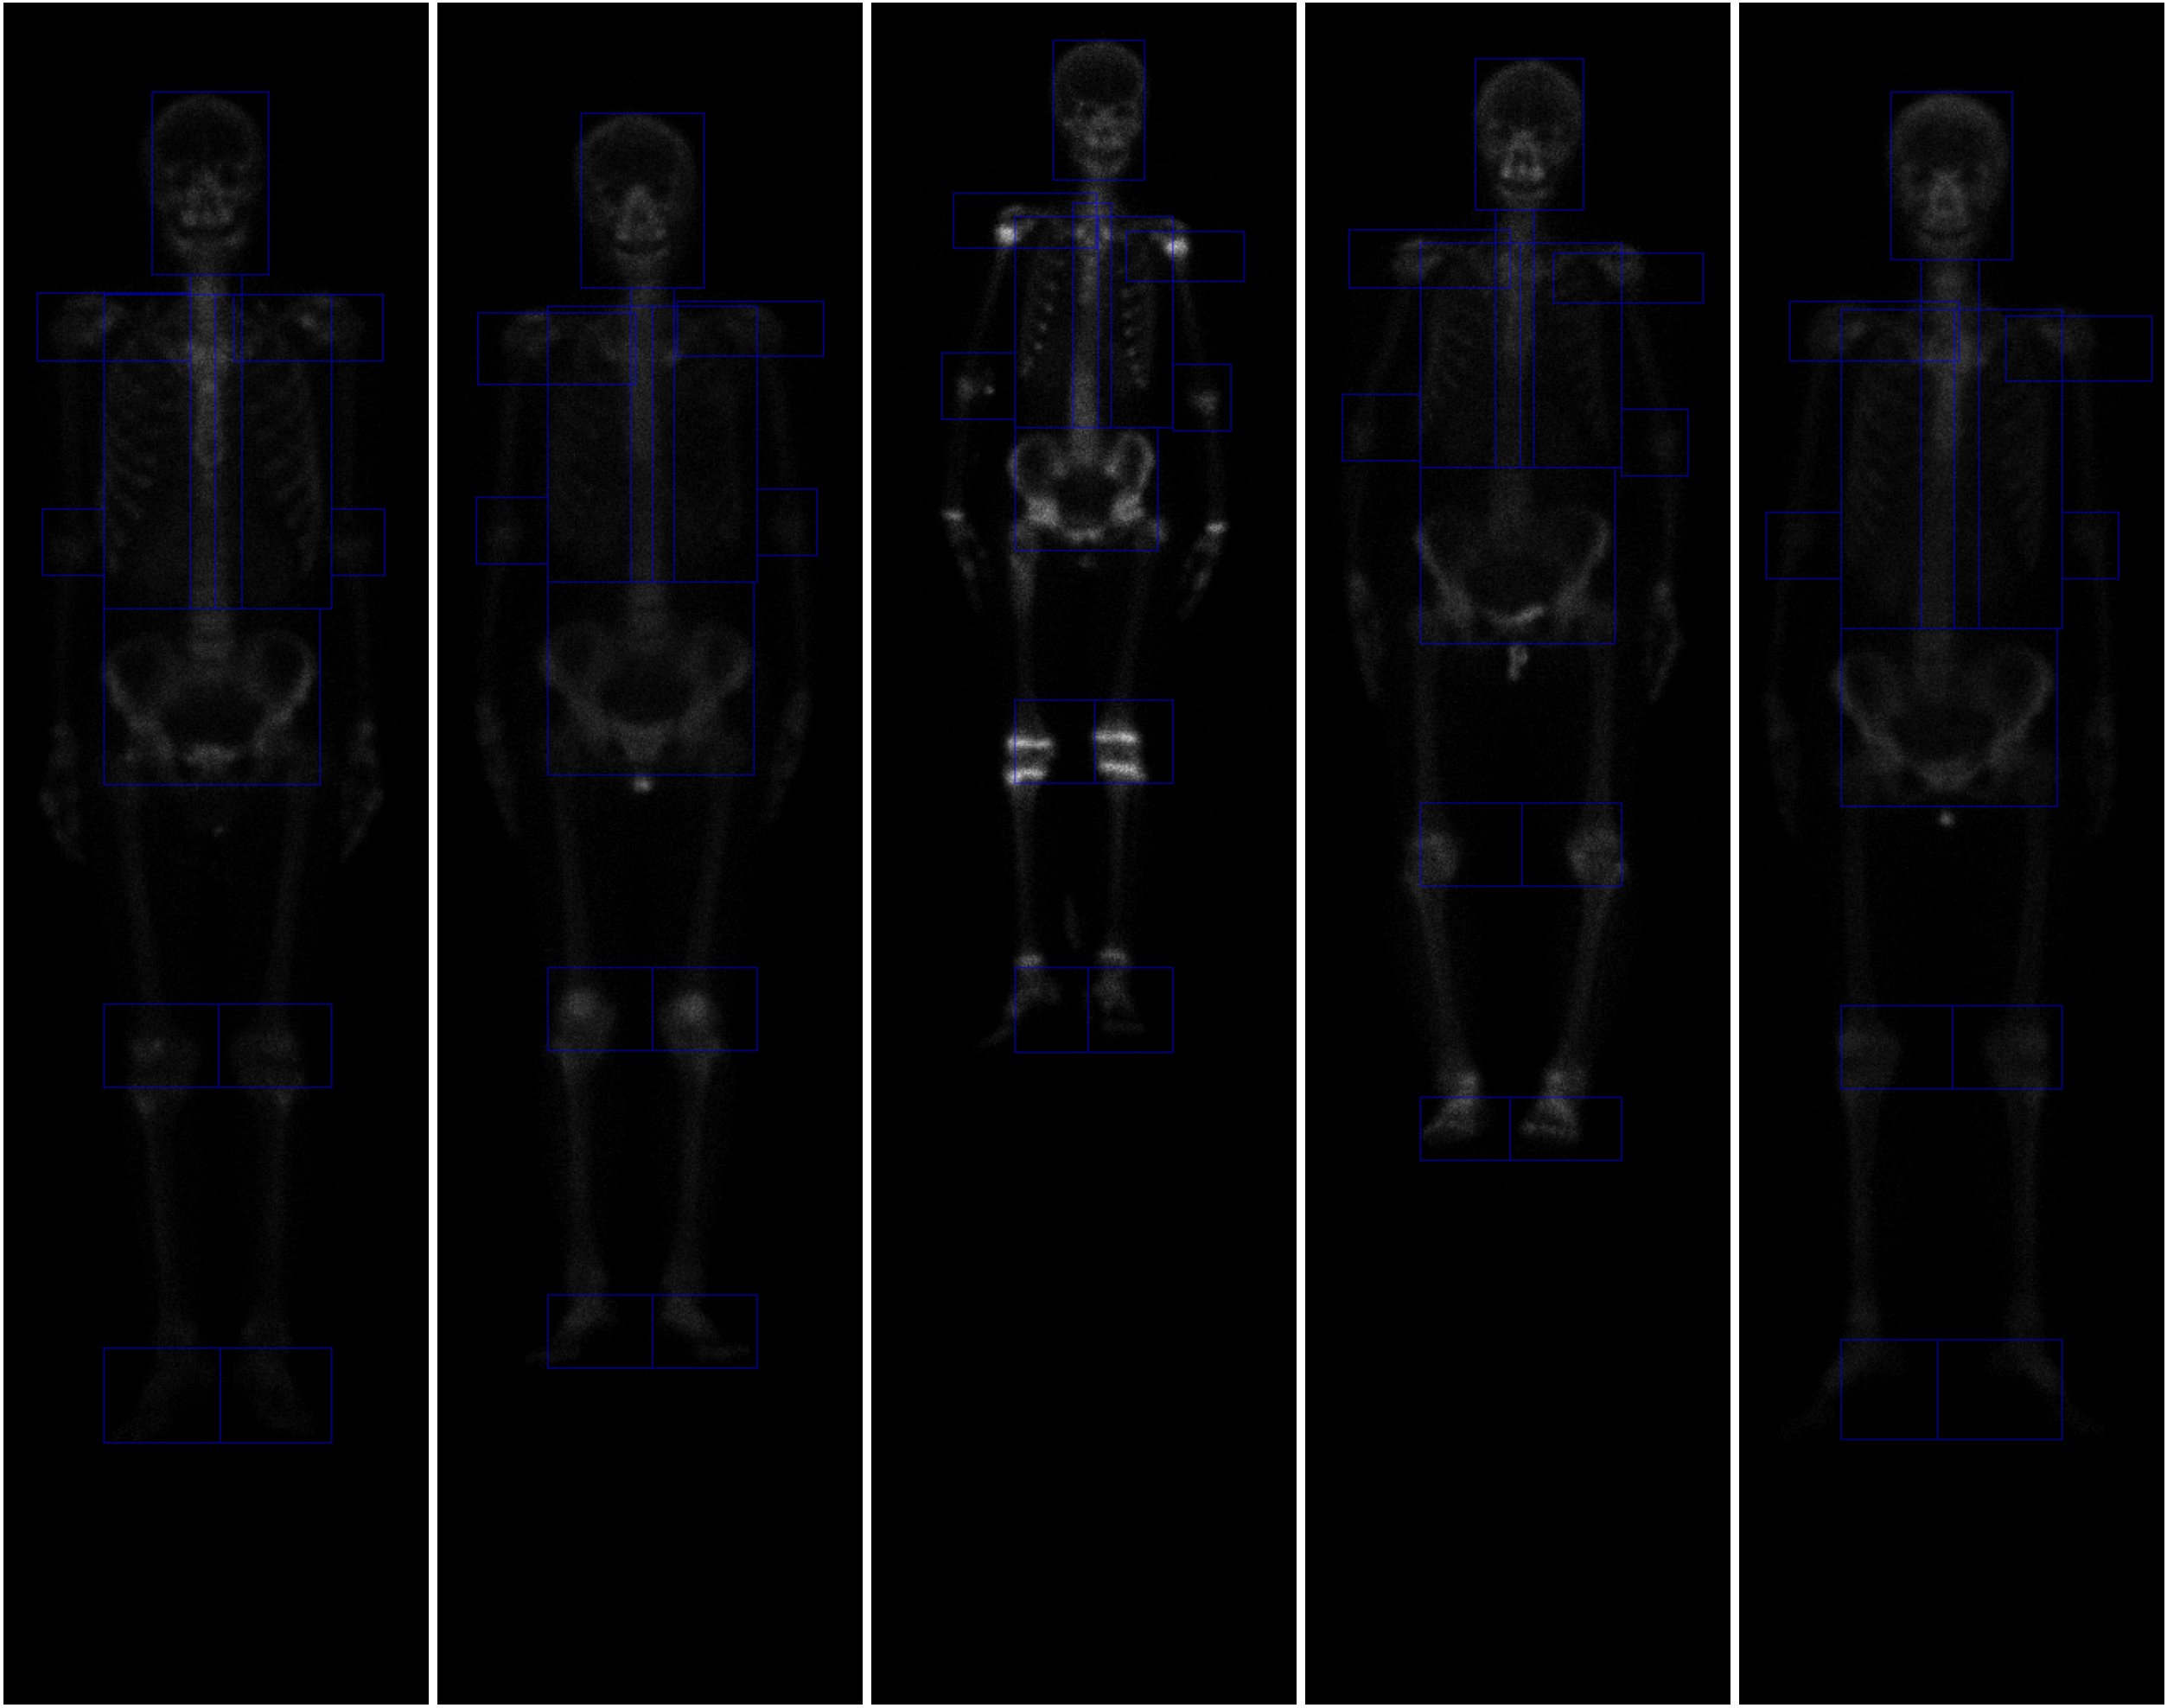
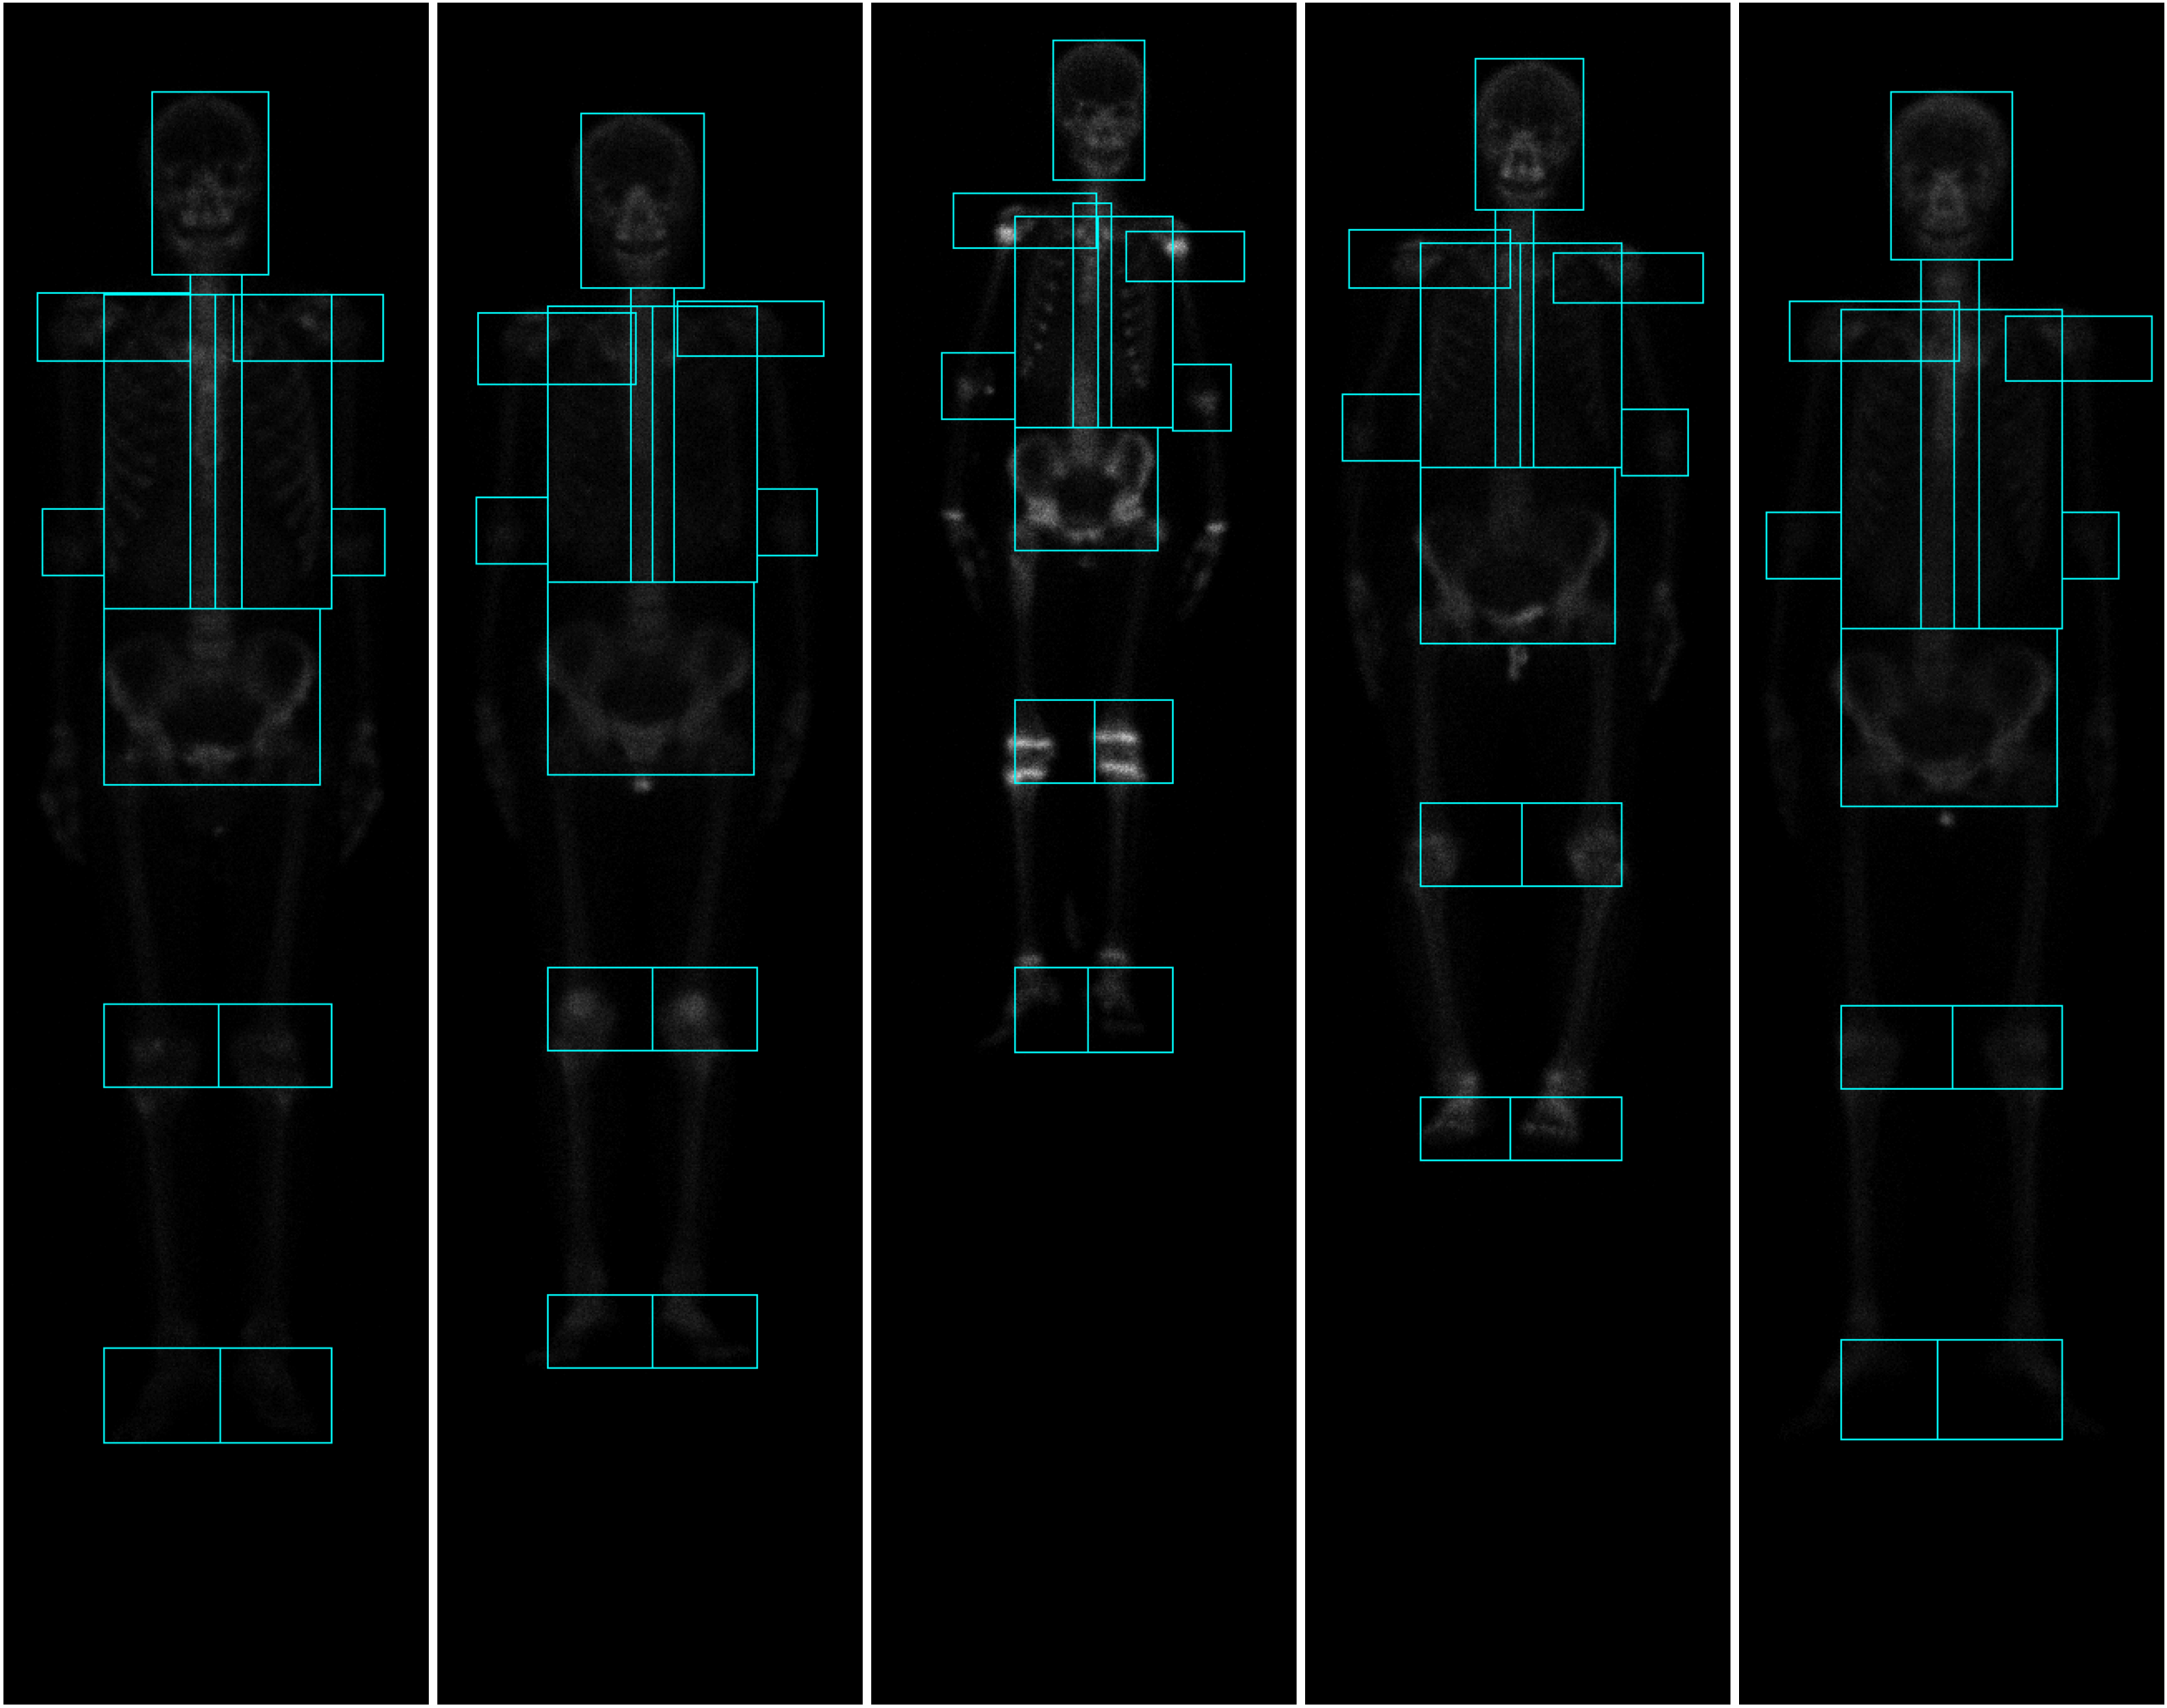
Add whole body grounding to the VQA dataset, switch preview boxes to cyan
grounding_qa.jsonl now has one region: "whole_body" record per patient per
view (bs80k-wholebody-bb/bounding_boxes.csv), grounding "localize the
patient's whole body" style questions in the actual scanner-canvas box
instead of one region's box. Diagnosis and hotspots reuse the same real
sources as region rows (wholeBodyANT/POST's own txt label, Abnormal class
nidus containment), not derived. Deliberately omits caption_description,
caption_diagnosis, low_precision_region, and region_overlap, none of those
have a whole body equivalent yet, inventing one would break the exact reuse
convention the rest of this dataset holds to. 82544 total records now
(76050 region + 6494 whole_body), splits regenerated, zero id leakage
reconfirmed.

Also switches every bounding box preview (region and whole body) from blue
50% alpha to cyan 100% opacity, per request.

diff --git a/src/vqa/build_grounding_dataset.py b/src/vqa/build_grounding_dataset.py
@@ -16,7 +16,10 @@ Three ingredients, no LLM, no cross-dataset image matching:
   3. LIBS-160K's 39 caption templates (context/libs160k.md), reused verbatim by exact
      (region, caption type) lookup, not paraphrased.
 
-One JSON record per bounding_boxes.csv row (so per region per patient per view).
+One JSON record per bounding_boxes.csv row (so per region per patient per view), plus one
+"whole_body" record per bs80k-wholebody-bb/bounding_boxes.csv row (context/wholebody_bbox.md),
+so "localize the patient's whole body" style questions are grounded in that box instead of one
+region's box.
 """
 import json
 import xml.etree.ElementTree as ET
@@ -26,6 +29,7 @@ import pandas as pd
 
 RAW = Path(r"C:\Users\lulay\Desktop\wbbs-dataset\bs80k-imaging-raw")
 BB_CSV = Path(r"C:\Users\lulay\Desktop\wbbs-dataset\bs80k-bone_region-bb\bounding_boxes.csv")
+WB_CSV = Path(r"C:\Users\lulay\Desktop\wbbs-dataset\bs80k-wholebody-bb\bounding_boxes.csv")
 LIBS = Path(r"C:\Users\lulay\Desktop\wbbs-dataset\libs160k-imaging-raw\LIBS-160K-EN")
 OUT = Path(r"C:\Users\lulay\Desktop\wbbs-dataset\bs80k-vqa-grounding\grounding_qa.jsonl")
 
@@ -174,15 +178,65 @@ def build_record(row, caption_lookup, nidus_boxes, region_boxes) -> dict:
     }
 
 
+def load_wholebody_labels() -> dict[tuple[int, str], str]:
+    """(id, view) -> "normal"/"abnormal", same txt convention as every region folder
+    (context/dataset.md), wholeBodyANT.txt/wholeBodyPOST.txt label the whole image, not one
+    region: abnormal if any nidus box exists anywhere in it."""
+    labels = {}
+    for view, folder in [("ANT", "wholeBodyANT"), ("POST", "wholeBodyPOST")]:
+        txt_path = RAW / folder / f"{folder}.txt"
+        for line in txt_path.read_text().splitlines():
+            filename, label = line.strip().split("\t")
+            pid = int(filename.removesuffix(".jpg"))
+            labels[(pid, view)] = "abnormal" if label == "1" else "normal"
+    return labels
+
+
+def build_wholebody_record(row, wb_labels, nidus_boxes) -> dict:
+    """"Can you localize the patient's whole body" style questions, grounded in
+    bs80k-wholebody-bb/bounding_boxes.csv (the body's own location inside the fixed scanner
+    canvas, context/wholebody_bbox.md) rather than one region's location inside the whole body
+    image. No caption_description/caption_diagnosis here, LIBS-160K has no whole body caption
+    template to borrow, only region ones, inventing one would break the exact reuse this
+    project has held to for every other caption field."""
+    pid, view = int(row["id"]), row["view"]
+    bbox = [int(row["x"]), int(row["y"]), int(row["width"]), int(row["height"])]
+    diagnosis = wb_labels[(pid, view)]
+    hotspots = hotspots_in_box(nidus_boxes.get((pid, view), []), *bbox)
+
+    qa = [
+        {"question": "Can you localize the patient's whole body in this bone scan?", "answer_bbox": bbox},
+        {"question": "Does this whole body bone scan show abnormal tracer uptake anywhere?",
+         "answer": "Yes" if diagnosis == "abnormal" else "No"},
+    ]
+    if hotspots:
+        qa.append({"question": "Where is the abnormal tracer uptake in this whole body bone scan?",
+                   "answer_bboxes": [h["bbox"] for h in hotspots]})
+
+    return {
+        "image": f"wholeBody{view}/{pid}.jpg",
+        "region": "whole_body",
+        "view": view,
+        "bbox": bbox,
+        "diagnosis": diagnosis,
+        "hotspots": hotspots,
+        "qa": qa,
+    }
+
+
 def main():
     caption_lookup = load_caption_lookup()
     nidus_boxes = load_nidus_boxes()
     df = pd.read_csv(BB_CSV)
     region_boxes = build_region_boxes(df)
+    wb_df = pd.read_csv(WB_CSV)
+    wb_labels = load_wholebody_labels()
 
     OUT.parent.mkdir(parents=True, exist_ok=True)
     n_with_hotspots = 0
     n_overlap = 0
+    n_wb_records = 0
+    n_wb_with_hotspots = 0
     with OUT.open("w", encoding="utf-8") as f:
         for _, row in df.iterrows():
             record = build_record(row, caption_lookup, nidus_boxes, region_boxes)
@@ -192,9 +246,18 @@ def main():
                 n_overlap += 1
             f.write(json.dumps(record) + "\n")
 
-    print(f"saved {OUT}, {len(df)} records")
-    print(f"{n_with_hotspots} records ({n_with_hotspots / len(df):.1%}) have at least one contained hotspot box")
-    print(f"{n_overlap} records ({n_overlap / len(df):.1%}) overlap at least one sibling region box")
+        for _, row in wb_df.iterrows():
+            record = build_wholebody_record(row, wb_labels, nidus_boxes)
+            n_wb_records += 1
+            if record["hotspots"]:
+                n_wb_with_hotspots += 1
+            f.write(json.dumps(record) + "\n")
+
+    total = len(df) + n_wb_records
+    print(f"saved {OUT}, {total} records ({len(df)} region + {n_wb_records} whole_body)")
+    print(f"{n_with_hotspots} region records ({n_with_hotspots / len(df):.1%}) have at least one contained hotspot box")
+    print(f"{n_overlap} region records ({n_overlap / len(df):.1%}) overlap at least one sibling region box")
+    print(f"{n_wb_with_hotspots} whole_body records ({n_wb_with_hotspots / n_wb_records:.1%}) have at least one contained hotspot box")
 
 
 if __name__ == "__main__":

diff --git a/src/matching/preview_bounding_boxes.py b/src/matching/preview_bounding_boxes.py
@@ -17,8 +17,8 @@ RAW = Path(r"C:\Users\lulay\Desktop\wbbs-dataset\bs80k-imaging-raw")
 OUT = Path(__file__).resolve().parents[2] / "result" / "figures" / "bounding_box_preview.png"
 VIEW = "ANT"
 N = 5
-ALPHA = 0.5
-BLUE = np.array([0, 0, 255], dtype=np.float64)
+ALPHA = 1.0
+CYAN = np.array([0, 255, 255], dtype=np.float64)
 
 PLAIN_REGIONS = [
     "ankleL", "ankleR", "chestL", "chestR", "elbowL", "elbowR",
@@ -57,7 +57,7 @@ for ax, i in zip(axes, ids):
 
     outlined = base_rgb.copy()
     on = line_mask > 0
-    outlined[on] = (1 - ALPHA) * base_rgb[on] + ALPHA * BLUE
+    outlined[on] = (1 - ALPHA) * base_rgb[on] + ALPHA * CYAN
 
     ax.imshow(outlined.astype(np.uint8))
     ax.axis("off")

diff --git a/context/vqa_grounding.md b/context/vqa_grounding.md
@@ -138,3 +138,31 @@ files. `grounding_qa_train.jsonl` (60840 rows, 2340 ids, 4.7% abnormal),
 `grounding_qa_val.jsonl` (7592 rows, 292 ids, 4.7% abnormal), `grounding_qa_test.jsonl` (7618
 rows, 293 ids, 4.4% abnormal), all saved alongside `grounding_qa.jsonl` in
 `bs80k-vqa-grounding/`, row counts sum to the full 76050 exactly.
+
+## v3: whole body grounding, "localize the patient's whole body"
+
+Once `bs80k-wholebody-bb/bounding_boxes.csv` existed at full scale (`context/wholebody_bbox.md`,
+6494 rows, every id and view), the same "localize X" question became answerable one level up,
+not a region inside the whole body image, but the whole body inside its own fixed scanner
+canvas. `build_grounding_dataset.py` now also writes one `region: "whole_body"` record per
+`bs80k-wholebody-bb/bounding_boxes.csv` row, appended after the region records, so the file now
+has 82544 total (76050 region plus 6494 whole_body).
+
+Diagnosis for a whole_body row comes from `wholeBodyANT.txt`/`wholeBodyPOST.txt` directly, the
+same 0/1 label convention as every region folder (`context/dataset.md`), abnormal if any nidus
+exists anywhere in the image, not derived or inferred. Hotspots reuse the same `hotspots_in_box`
+containment check, against the whole body box instead of a region box, so it naturally picks up
+every abnormal nidus in the image, 34.4% of whole_body rows have at least one, versus 5.7% for
+region rows, expected, a whole body box covers far more area than any one region.
+
+Deliberately does not carry `caption_description`, `caption_diagnosis`, `low_precision_region`,
+or `region_overlap`. The first two have no LIBS-160K source, LIBS-160K's 39 templates are all
+region level, inventing whole body caption text would break the exact reuse this project has
+held to for every other caption field. The other two are region level quality signals that do
+not have a whole body equivalent yet. A consumer should check `region == "whole_body"` before
+expecting the region-only fields, the schema is not uniform across the two record kinds by
+choice, not oversight.
+
+`split_dataset.py` re-run unchanged, still patient id level, now spans all 3247 ids (whole_body
+records exist for every id, not just the 2925 with region crops): 65956 train / 8268 val / 8320
+test rows, zero id overlap confirmed again, sums to 82544 exactly.